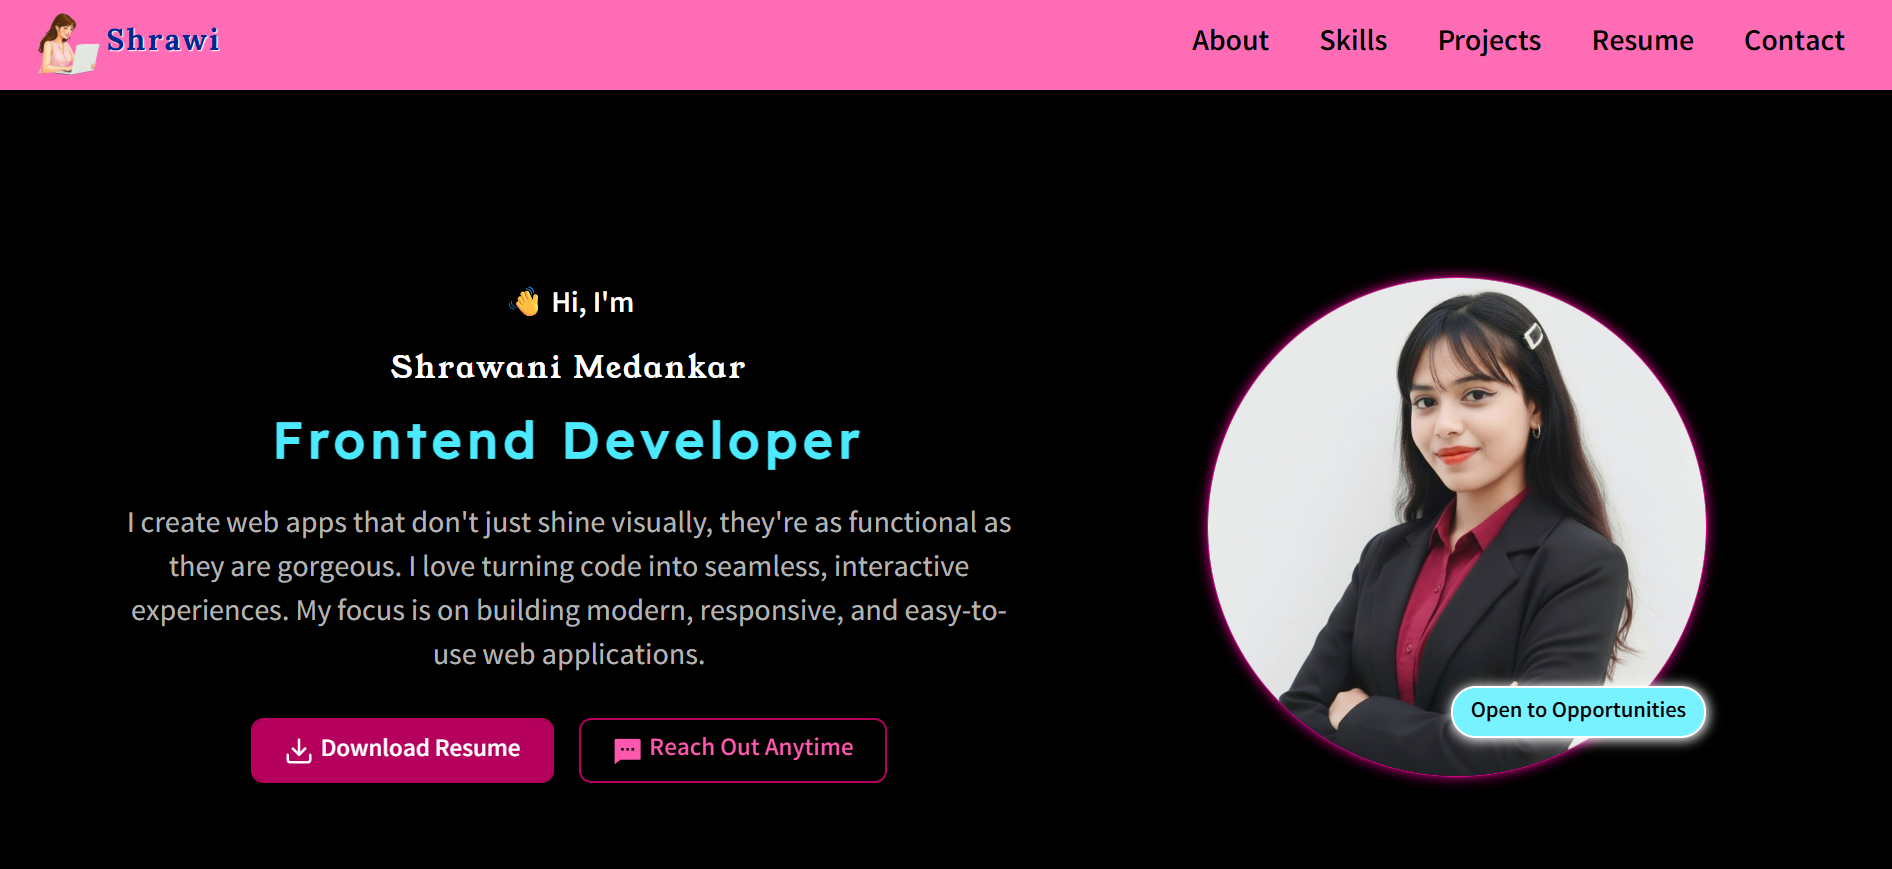
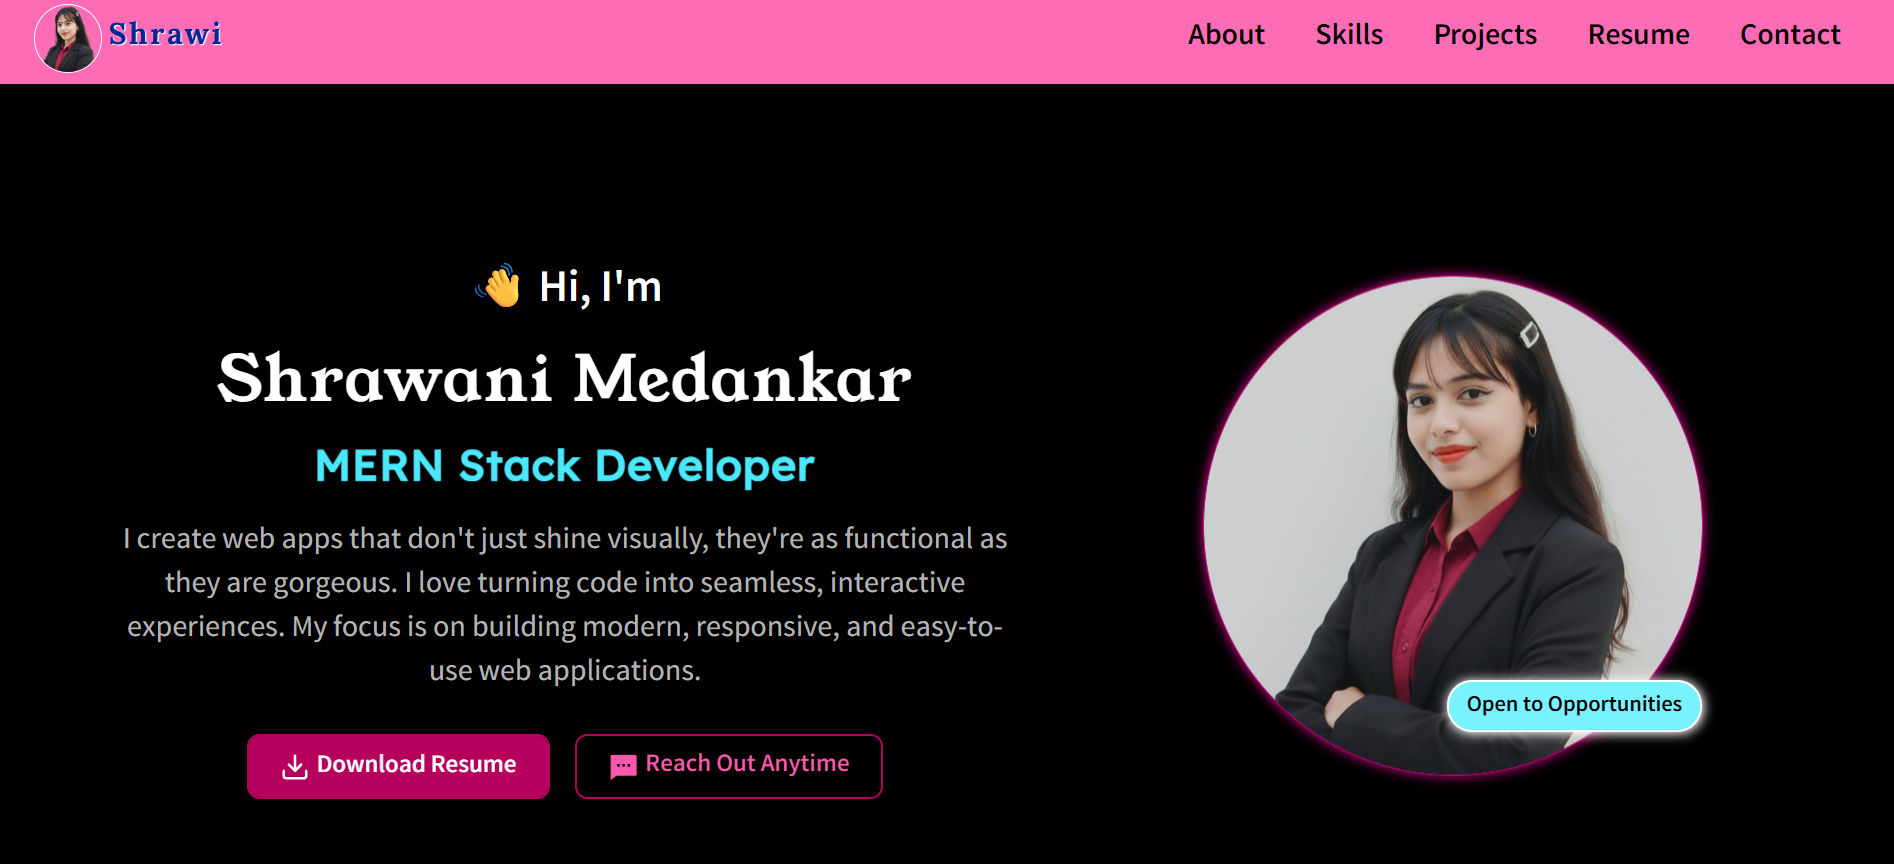
Updated Projects

diff --git a/src/Pages/Projects/projectsData.js b/src/Pages/Projects/projectsData.js
@@ -159,10 +159,11 @@ const projectsData = [
   {
     id: 7,
     title: "Quick Notes",
-    description: "sequences",
+    description:
+      "A Notes Application built using React.js and Tailwind CSS. Users can add, edit, delete, search, and store notes using LocalStorage.",
     category: "frontend",
     image: "/quickNotes.png",
-    tech: ["React", "Tailwind CSS", "JavaScript"],
+    tech: ["React.js", "Tailwind CSS", "JavaScript"],
     live: "https://quick-notes-q1fj.onrender.com",
     github: "https://github.com/shrawanimedankar/quick-notes",
     date: "October 2025",
@@ -189,8 +190,8 @@ const projectsData = [
     category: "frontend",
     image: "/todoList.png",
     tech: ["React.js", "JavaScript", "CSS"],
-    live: "",
-    github: "",
+    live: "https://github.com/shrawanimedankar/To-Do-List",
+    github: "https://github.com/shrawanimedankar/To-Do-List",
     date: "October 2025",
     keyFeatures: [
       "Add new todos",

diff --git a/src/Pages/Projects/Projects.module.css b/src/Pages/Projects/Projects.module.css
@@ -109,8 +109,8 @@
 }
 
 .description {
-  font-size: 20px;
-  color: #ffffff;
+  font-size: 19px !important;
+  color: #d7d7d7;
   text-align: start;
   font-weight: 200;
   margin-top: 10px;
@@ -128,7 +128,7 @@
   padding: 5px 10px;
   color: rgb(255, 255, 255);
   border-radius: 60px;
-  font-size: 20px;
+  font-size: 17px !important;
   border: 1px solid rgb(53, 53, 53);
 }
 
